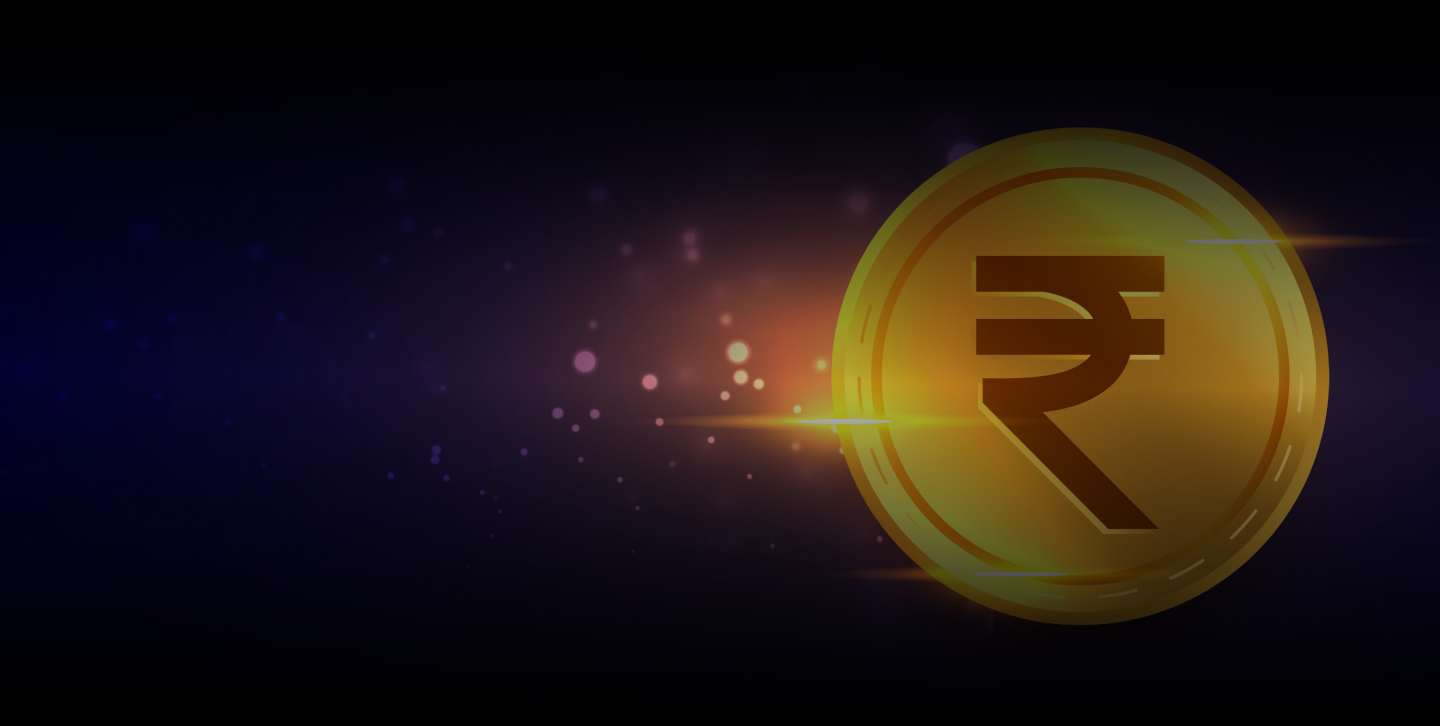
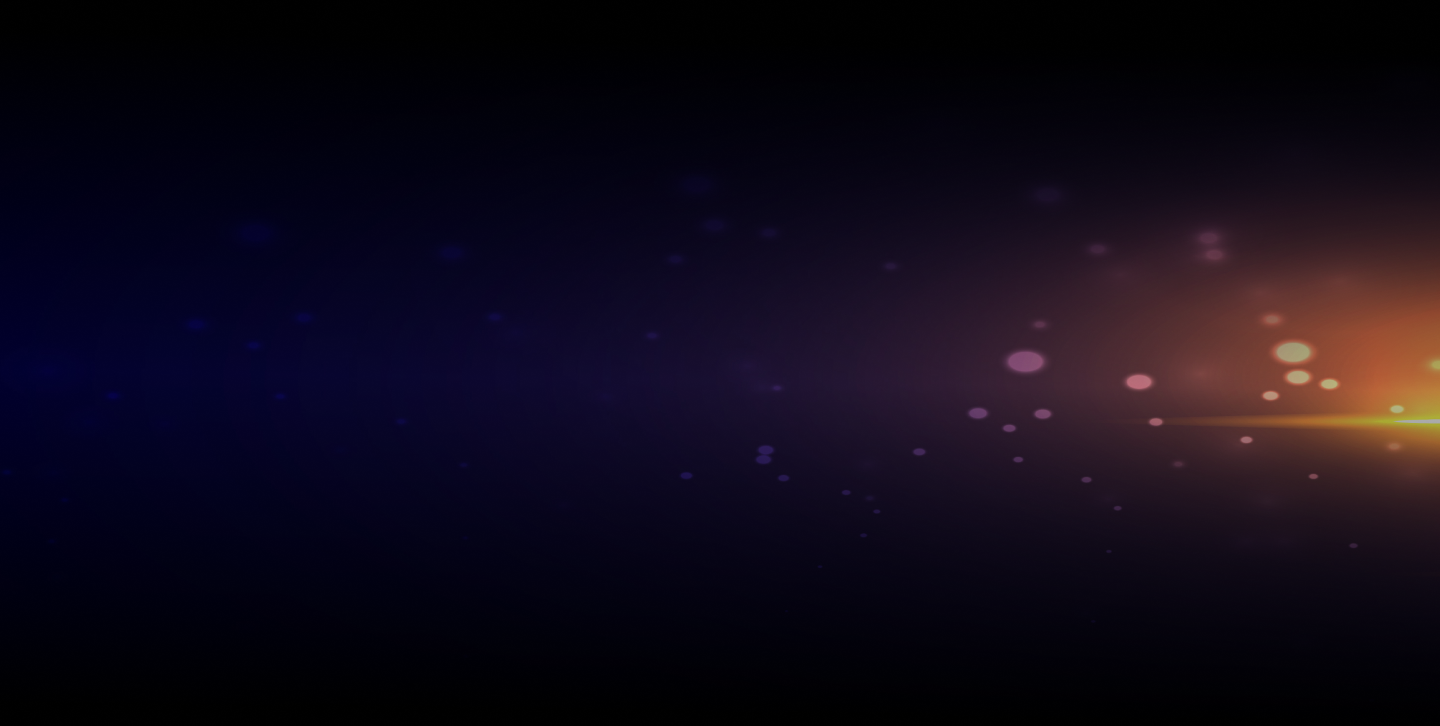
corrected the mistakes in about us section

diff --git a/index.html b/index.html
@@ -137,8 +137,9 @@
                         </div>
                     </div>
                     <div class="col-lg-5 d-flex align-items-center justify-content-center">
-                        <div class="image-w-h-about-us">
-                            <img src="./assets/Images/PNG/coin-about-us-image.png" alt="coin image" class="w-100 h-100">
+                        <div class="image-w-h-about-us after_coin_img">
+                            <img src="./assets/Images/PNG/coin-about-us-image.png" alt="coin image"
+                                class="w-100 h-100 position-relative z-1">
                         </div>
                     </div>
                 </div>

diff --git a/assets/css/style.css b/assets/css/style.css
@@ -136,6 +136,23 @@
     max-width: 490px;
 }
 
+.after_coin_img {
+    position: relative;
+}
+
+.after_coin_img::before {
+    content: "";
+    position: absolute;
+    background-image: url(../Images/PNG/coin-about-us.png);
+    background-position: center;
+    background-size: cover;
+    background-repeat: no-repeat;
+    width: 100%;
+    height: 100%;
+    top: -12px;
+    left: 40px;
+}
+
 /* <----------------------------------------------------------- Timeline ----------------------------------------------------------------> */
 .pos-abs-fire {
     top: 0;

diff --git a/assets/css/root.css b/assets/css/root.css
@@ -1047,6 +1047,10 @@ a {
         padding: 1rem;
     }
 
+    .after_coin_img::before {
+        display: none;
+    }
+
     .domino>div:nth-child(3) {
         margin: 15px;
     }
